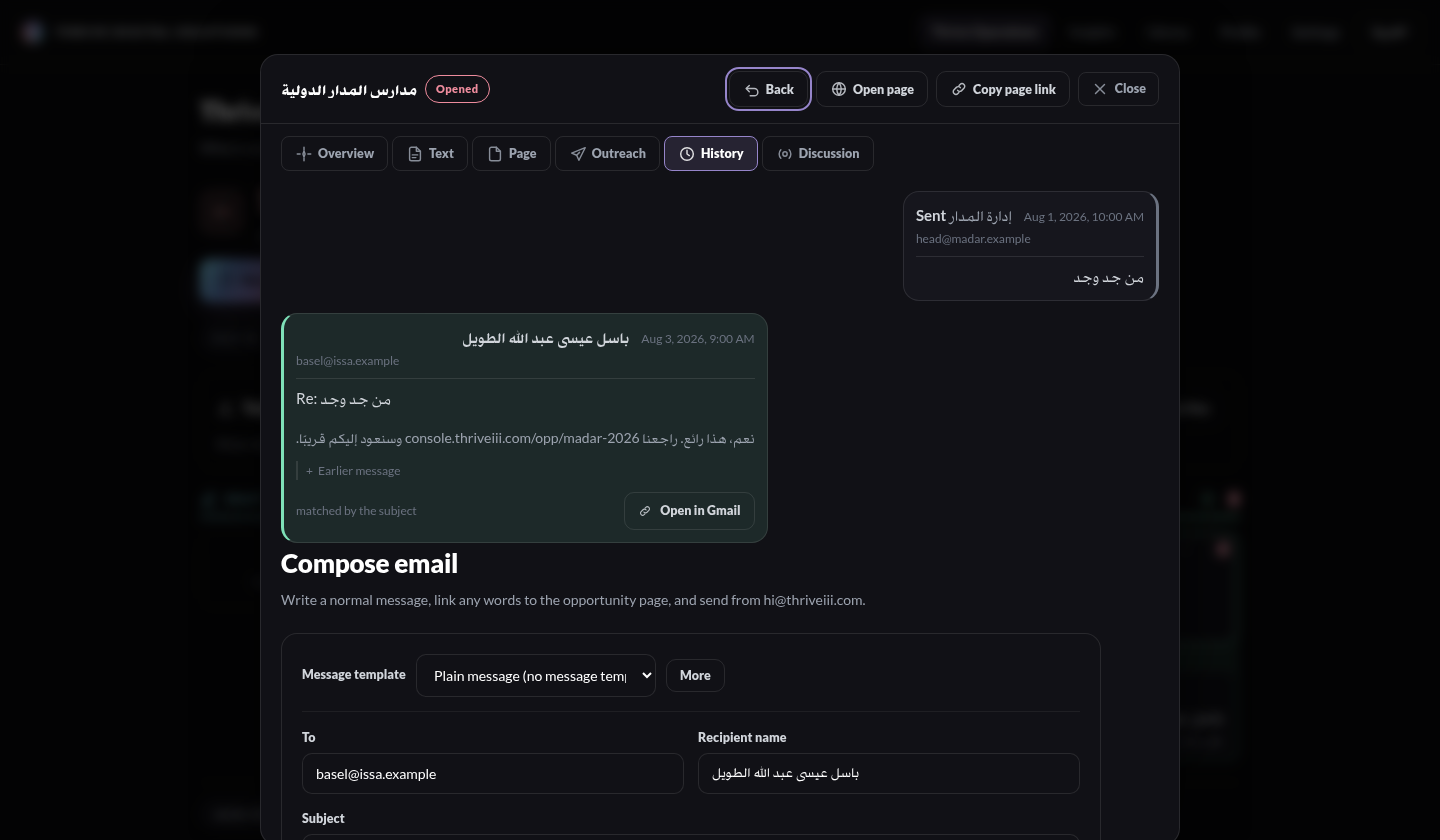
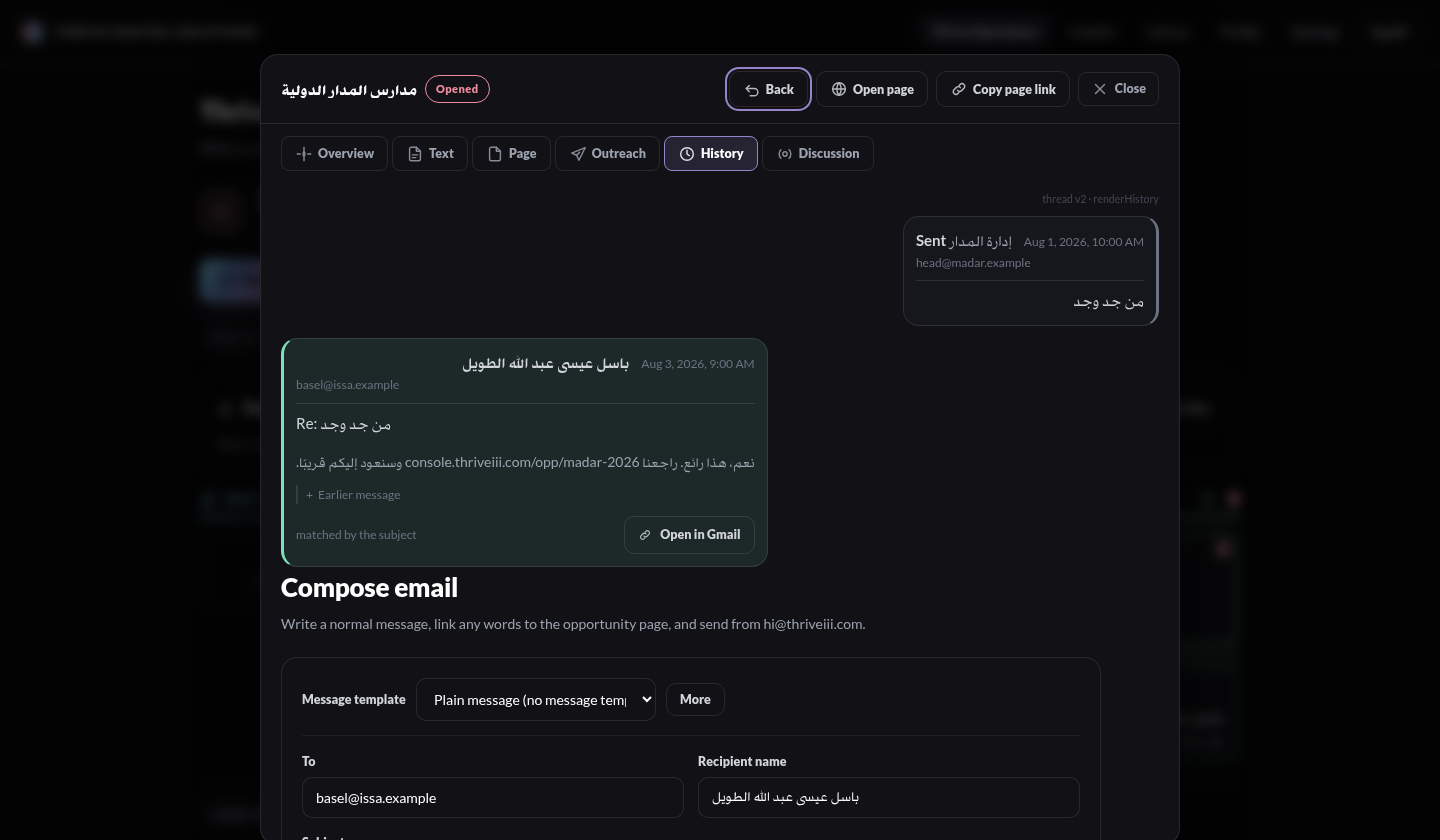
Console: mark and instrument the History renderer so the mounted one is provable on device
The "thread v2" marker did not appear on a fresh device build. The forensics
show why, and it is not a second renderer: the marker's commit was never
deployed.

What actually happened (git-provable):
  - PR #157 was merged at the REBUILD commit (0f9b444). main's library/app.js
    carries the rebuilt renderer (msgBubble, sentCard routes through it), and
    its cache-bust stamp changed with the content (b73a67d66a -> e09212579f),
    so a fresh load serves the rebuilt app.js.
  - The MARKER commit (b9e82b4) was never merged - it was stacked on the
    already-merged branch instead of a fresh PR, so its code is not on main.
    That is why the marker is absent on device: the marker's code was not
    deployed, not because a different component is mounted.
  - dist/thrive-console.html is gitignored (.gitignore: dist/) and nothing in
    the served site references it - it is the offline single-file, never the
    live path. The live path is index.html -> library/console.html -> app.js.

This restarts the branch off latest main (per the merged-PR rule) so the
marker actually reaches a deployable branch, and adds runtime instrumentation
so the mounted renderer is never guessed from source again:
  - The visible corner marker now NAMES the renderer ("thread v2 · renderHistory").
  - Every writer of #modalHistory self-identifies in the DOM: data-renderer on
    threadListHtml's list, data-bubble on each msgBubble, data-history-renderer
    on the container.
[…]

diff --git a/library/app.js b/library/app.js
@@ -5092,6 +5092,41 @@ function renderReplyBodyStructured(text){
       '</summary><div class="rp-quoted-body">'+renderReplyBody(bk.text)+'</div></details>';
   }).join("");
 }
+/* The rendered thread self-identifies. This marker is painted in a corner of the History conversation the
+   moment it opens, analogous to the build stamp but scoped to THIS component, so it is obvious on device
+   whether the current renderer is the one on screen. It exists because the conversation view once appeared
+   unchanged across fixes and the only way to be certain WHICH renderer is mounted is to have it announce
+   itself. There is exactly one card-History renderer (threadListHtml, mounted by renderHistory into
+   #modalHistory); bump this string whenever the thread renderer is rebuilt, so a stale copy is unmissable. */
+var THREAD_RENDERER_VERSION="v2";
+function threadRendererTag(){ return "thread "+THREAD_RENDERER_VERSION; }
+/* Runtime proof of the mounted renderer. Walks the OPEN History DOM (#modalHistory) and reports: the marker
+   text, the container's declared renderer, the count of msgBubble bubbles, and - the decisive check - which
+   leaf element actually holds the reply's on-screen text ("Open in Gmail" / "matched by the subject") and
+   which data-renderer owns it. If a second render path ever mounts, the reply text will resolve to a
+   container this renderer did not stamp, and that shows here instead of being guessed from source. Exposed as
+   a global and logged on every History render, so the truth is one console line on device. Pure read. */
+function threadRendererReport(){
+  var box=(typeof document!=="undefined") && document.getElementById("modalHistory");
+  if(!box) return { mounted:false };
+  var needles=[]; try{ needles=[t("rp_open_gmail"), t("rp_rule_subject")].filter(Boolean); }catch(e){}
+  var holder=null, all=box.querySelectorAll("*");
+  for(var i=0;i<all.length && !holder;i++){
+    var elx=all[i]; if(elx.childElementCount!==0) continue;             // leaf elements only
+    var txt=elx.textContent||"";
+    for(var k=0;k<needles.length;k++){ if(txt.indexOf(needles[k])>=0){ holder=elx; break; } }
+  }
+  var owner="(none)"; if(holder){ var p=holder.closest("[data-renderer]"); owner=p? p.getAttribute("data-renderer") : "(no data-renderer ancestor)"; }
+  return {
+    mounted:true,
+    marker: ((box.querySelector(".th-ver")||{}).textContent||"").trim(),
+    historyRenderer: box.getAttribute("data-history-renderer")||"(unstamped)",
+    listRenderer: box.querySelector('[data-renderer="threadListHtml"]') ? "threadListHtml@library/app.js" : "(no threadListHtml container)",
+    bubbles: box.querySelectorAll('[data-bubble="msgBubble"]').length,
+    replyTextOwner: owner
+  };
+}
+if(typeof window!=="undefined") window.threadRendererReport=threadRendererReport;
 function threadListHtml(slug){
   const entries=buildThread(slug);
   const when=ts=> fmtWhenHtml(ts) || esc(String(ts==null?"":ts));   // isolated date markup (bdi), never LTR-forced
@@ -5113,7 +5148,7 @@ function threadListHtml(slug){
     var isOut=o.side==="out";
     var cardCls=isOut ? "msg-out" : ("rp-card"+(o.latest?" is-latest":""));
     var bodyInner=(o.subjHtml||"")+(o.bodyHtml||"");
-    return '<li class="'+(isOut?"th-sent":"th-reply")+'"'+(o.rid? ' data-rid="'+esc(o.rid)+'"' : '')+'>'+
+    return '<li class="'+(isOut?"th-sent":"th-reply")+'" data-bubble="msgBubble"'+(o.rid? ' data-rid="'+esc(o.rid)+'"' : '')+'>'+
       '<div class="'+cardCls+'">'+
         '<div class="rp-head">'+
           '<div class="rp-top">'+(o.leadHtml||"")+
@@ -5156,7 +5191,9 @@ function threadListHtml(slug){
                 (r.ambiguous? '<span class="rp-ambig" data-icon="alert">'+esc(t("rp_ambiguous"))+'</span>' : '')+
                 (r.gmail? '<a class="btn ghost sm" href="'+esc(r.gmail)+'" target="_blank" rel="noopener">'+ic("link")+esc(t("rp_open_gmail"))+'</a>' : '') });
   }
-  let html='<ol class="th-list">', lastCh=0;
+  // Runtime self-identification: the conversation list names the exact function and file that built it, so
+  // the mounted renderer can be read straight off the DOM on device (the proof that ends fixing a blind copy).
+  let html='<ol class="th-list" data-renderer="threadListHtml" data-file="library/app.js">', lastCh=0;
   entries.forEach(e=>{
     const ch=e.chapter||1;
     if(lastCh && ch>lastCh) html+='<li class="th-chapter"><span>'+esc(t("th_chapter_"+(ch===2?"offer":"more")))+'</span></li>';
@@ -9985,7 +10022,15 @@ function initModal(){
     // When there is no address to answer, a gentle line stands in for the composer.
     let html=threadListHtml(slug);
     if(!(replyTarget(slug)||{}).addr) html+='<p class="th-noreply sub">'+esc(t("th_reply_no_addr"))+'</p>';
-    box.innerHTML=html;
+    // The renderer self-identifies: a low-contrast corner marker naming the mounted renderer, so on device it
+    // is obvious WHICH conversation renderer is on screen (the proof that ends fixing a blind copy). The
+    // container also carries a data-renderer attribute, and threadRendererReport() walks the rendered DOM to
+    // name the exact container that holds the reply text - so a second render path, if one ever exists, is
+    // caught at runtime rather than guessed at from source. Prepended here, in the one History renderer, so it
+    // shows even on an empty thread. aria-hidden: a diagnostic tag, not content read to a screen reader.
+    box.setAttribute("data-history-renderer", "renderHistory>threadListHtml@library/app.js");
+    box.innerHTML='<div class="th-ver" aria-hidden="true" data-renderer="renderHistory">'+esc(threadRendererTag())+' · renderHistory</div>'+html;
+    try{ if(window.console && console.info) console.info("[thread-renderer]", JSON.stringify(threadRendererReport())); }catch(_){}
   }
 
   /* The open team discussion. The list and composer are drawn by discussionHtml (a pure builder); this

diff --git a/library/console.html b/library/console.html
@@ -4,8 +4,8 @@
 <meta charset="UTF-8">
 <meta name="viewport" content="width=device-width, initial-scale=1.0, viewport-fit=cover">
 <meta name="robots" content="noindex, nofollow">
-<meta name="thrive-build" content="964e44cb">
-<meta name="thrive-built-at" content="2026-08-16T09:51:10Z">
+<meta name="thrive-build" content="d0224706">
+<meta name="thrive-built-at" content="2026-08-16T10:53:00Z">
 <!-- The shell must always re-fetch the current asset references so a new deploy is never served as old
      bytes. GitHub Pages sets its own short HTML cache we cannot override with a header, so these are the
      in-our-control best effort; the load-bearing guarantee is the versioned redirect in the root index.html
@@ -35,7 +35,7 @@ p.textContent=ar?'تعذّر تشغيل الكونسول. أعد تحميل ال
 :'The console could not start. Reload the page, and check your connection if it happens again.';
 (document.body||d).appendChild(p)},6000)})();</script>
 <link rel="stylesheet" href="fonts.css?v=4db13ad39c">
-<link rel="stylesheet" href="styles.css?v=a66d086b1c">
+<link rel="stylesheet" href="styles.css?v=b8a87063dc">
 <style>.view[hidden]{display:none!important}</style>
 </head>
 <body>
@@ -56,7 +56,7 @@ p.textContent=ar?'تعذّر تشغيل الكونسول. أعد تحميل ال
      second which code is live and when it was built; every device capture is now labeled. Low contrast and
      pointer-events:none, so it never obstructs the board. The values are ASCII and isolated in a bdi run so
      the Arabic layout cannot reorder them. -->
-<div class="build-stamp" aria-hidden="true">build <bdi class="mono-iso">964e44cb</bdi> · <bdi class="mono-iso">2026-08-16T09:51:10Z</bdi></div>
+<div class="build-stamp" aria-hidden="true">build <bdi class="mono-iso">d0224706</bdi> · <bdi class="mono-iso">2026-08-16T10:53:00Z</bdi></div>
 
 <main class="wrap view" id="view-board" hidden>
 
@@ -924,7 +924,7 @@ p.textContent=ar?'تعذّر تشغيل الكونسول. أعد تحميل ال
 <script src="store.js?v=3cba9b8cff"></script>
 <script src="drafts.js?v=302cc5b4e6"></script>
 <script src="flows.js?v=377173fc32"></script>
-<script src="app.js?v=e09212579f"></script>
+<script src="app.js?v=75ff612ed7"></script>
 <script>
 /* One document, eight views. Each init runs the first time its view is shown, which is exactly
    what the served console does per page load, and again whenever the view is asked for with

diff --git a/library/styles.css b/library/styles.css
@@ -1940,15 +1940,17 @@ body.is-dragging{ cursor:grabbing; user-select:none }
 .mw-empty-i{ color:var(--ink-3); opacity:.4 }
 .mw-empty p{ margin:0; font-size:var(--fs-sm); color:var(--ink-4) }
 
-.mw-hist{ list-style:none; margin:0; padding:0; display:grid; gap:var(--s-2) }
-.mw-hist li{
-  display:flex; gap:var(--s-3); flex-wrap:wrap; align-items:baseline;
-  padding:var(--s-2) var(--s-3);
-  border:1px solid var(--hair-2); border-radius:var(--r-sm);
+/* The card-History conversation has ONE renderer: threadListHtml, mounted by renderHistory into
+   #modalHistory; its styles are the .th-list / .th-sent / .th-reply bubbles below. The old .mw-hist list
+   renderer was retired long ago; its fossil CSS is removed here, so there is a single conversation component
+   in code AND in style, with no dead copy for a future fix to drift into. */
+/* The rendered thread self-identifies: a low-contrast marker painted in a corner of the History view the
+   moment it opens (analogous to the build stamp, scoped to this component), so it is unmistakable on device
+   which renderer is mounted. Non-interactive, aria-hidden in the markup. */
+.th-ver{
+  font-size:var(--fs-micro); color:var(--ink-4); opacity:.55;
+  text-align:end; margin:0 0 var(--s-2); user-select:none; pointer-events:none;
 }
-.mw-hist-when{ font-size:var(--fs-micro); color:var(--ink-4); flex:0 0 auto }
-.mw-hist-what{ font-size:var(--fs-xs); color:var(--ink); font-weight:var(--w-head) }
-.mw-hist-detail{ font-size:var(--fs-xs); color:var(--ink-4); min-width:0; word-break:break-word }
 
 /* WO-015 Phase A: the thread, one continuous record oldest to newest. */
 .th-list{ list-style:none; margin:0; padding:0; display:grid; gap:var(--s-2) }

diff --git a/index.html b/index.html
@@ -4,16 +4,16 @@
 <meta http-equiv="Pragma" content="no-cache">
 <meta http-equiv="Expires" content="0">
 <title>Thrive</title>
-<meta http-equiv="refresh" content="0; url=./library/console.html?v=964e44cb">
+<meta http-equiv="refresh" content="0; url=./library/console.html?v=d0224706">
 <link rel="icon" href="./assets/thrive-logo.png">
 <style>html,body{margin:0;background:#0a0a0c;color:#9ca3af;font-family:-apple-system,Segoe UI,Roboto,sans-serif;height:100%}
 .c{height:100%;display:flex;align-items:center;justify-content:center;gap:12px}
 img{width:26px;height:26px;animation:s 22s linear infinite}@keyframes s{to{transform:rotate(360deg)}}
 a{color:#71BFCC}</style></head>
-<body><div class="c"><img src="./assets/thrive-logo.png" alt=""><span>Opening the <a href="./library/console.html?v=964e44cb">Thrive Opportunity Library</a>…</span></div>
+<body><div class="c"><img src="./assets/thrive-logo.png" alt=""><span>Opening the <a href="./library/console.html?v=d0224706">Thrive Opportunity Library</a>…</span></div>
 <script>(function(){/* Carry any incoming query params (and the hash) across the redirect, so a device
   opened at ?debug=paint reaches the shell WITH the flag rather than losing it at the version bounce. The
   script wins the redirect race with the meta-refresh, so this is the path that actually runs. */
   var q=location.search||"";if(q.charAt(0)==="?")q=q.slice(1);
-  var u="./library/console.html?v=964e44cb"+(q?("&"+q):"")+(location.hash||"");
+  var u="./library/console.html?v=d0224706"+(q?("&"+q):"")+(location.hash||"");
   location.replace(u);})();</script></body></html>

diff --git a/tools/thread_rebuild_test.py b/tools/thread_rebuild_test.py
@@ -55,6 +55,16 @@ ck("a broadened quote-boundary detector exists (Outlook block + separators), so 
    "function quoteStartIndex(" in app and "original message" in app.lower())
 ck("the optimistic reply and scroll-to-newest helpers exist",
    "function threadOptimisticReply(" in app and "function scrollThreadToNewest(" in app)
+# Step 1/2: there is ONE card-History renderer and it self-identifies with a version marker.
+ck("exactly one card-History renderer (threadListHtml) and one mount (renderHistory), no second path",
+   app.count("function threadListHtml(")==1 and app.count("function renderHistory(")==1)
+ck("the thread renderer carries a self-identifying version marker (threadRendererTag / THREAD_RENDERER_VERSION)",
+   "THREAD_RENDERER_VERSION" in app and "function threadRendererTag(" in app and 'class="th-ver"' in app)
+# Runtime instrumentation: every History writer stamps itself, and a probe names the mounted renderer.
+ck("every History writer self-identifies at runtime (data-renderer on the list, data-bubble on each message)",
+   'data-renderer="threadListHtml"' in app and 'data-bubble="msgBubble"' in app and 'data-history-renderer' in app)
+ck("a runtime probe (threadRendererReport) walks the open History DOM to name the mounted renderer",
+   "function threadRendererReport(" in app and "window.threadRendererReport" in app)
 
 # A long Arabic sender name, so the header row is stressed at phone width. A bare-domain (no scheme) inside
 # the Arabic answer, so the isolation is exercised on the exact collision case.
@@ -225,6 +235,26 @@ with sync_playwright() as p:
         ck(f"[{lang}] the thread holds the phone: no horizontal overflow, every bubble inside its box",
            over["over"] <= 1 and over["bubOver"] is False, over)
     pg.evaluate("()=>document.documentElement.setAttribute('dir','ltr')")
+
+    # ---- Step 2: the rendered thread self-identifies with a VISIBLE version marker, so it is unmistakable
+    #      on device which renderer is mounted (the fix for fixing an unrendered copy) ----
+    marker = pg.evaluate("""()=>{
+      window.thriveModal.open('co','history','Co');
+      return new Promise(res=>setTimeout(()=>{
+        const box=document.getElementById('modalHistory');
+        const m=box && box.querySelector('.th-ver');
+        const cs=m?getComputedStyle(m):null;
+        res({ present:!!m, text:m?m.textContent.trim():'',
+              visible:!!(m && m.offsetParent!==null && cs.display!=='none' && parseFloat(cs.opacity)>0),
+              report: (typeof window.threadRendererReport==='function') ? window.threadRendererReport() : null });
+      }, 500));
+    }""")
+    ck("Step 2: the History thread renders a VISIBLE marker naming the mounted renderer (self-identifies on device)",
+       marker["present"] and marker["text"].startswith("thread v2") and "renderHistory" in marker["text"] and marker["visible"], marker)
+    rep = marker.get("report") or {}
+    ck("runtime probe: the reply's on-screen text is owned by threadListHtml (the mounted renderer, proven at runtime)",
+       rep.get("mounted") is True and rep.get("replyTextOwner")=="threadListHtml"
+       and rep.get("bubbles",0) >= 1 and "threadListHtml" in (rep.get("listRenderer") or ""), rep)
 
     ctx.close(); b.close()
 httpd.shutdown()

diff --git a/tools/perf_gate.py b/tools/perf_gate.py
@@ -21,14 +21,16 @@ os.environ.setdefault("PLAYWRIGHT_BROWSERS_PATH", "/opt/pw-browsers")
 ROOT="/home/user/thrive-console"; CH="/opt/pw-browsers/chromium-1194/chrome-linux/chrome"
 
 # Ceilings: set a little above today's measured size so ordinary growth passes and real bloat trips.
-APP_JS_MAX   = 650_000     # library/app.js today ~646 KB (grew across merged briefs; the replies-attach brief
+APP_JS_MAX   = 655_000     # library/app.js today ~650 KB (grew across merged briefs; the replies-attach brief
                            # added the confirmed-inbound path, the reply parent resolver + per-opp numbering,
                            # the card reply badge, and the inbox by-opportunity section; the replies-are-linked
                            # brief added subjLinkKey / subjectLinkOpp, the write-time subject link, and the
                            # extended noise filter; the reply-card brief added the distinct Replied-lane reply
                            # card + tap-to-thread and the two-sided conversation bubbles; the thread-rebuild
                            # brief added the one shared message-bubble component, the broadened per-span
-                           # isolation and quote-boundary detector, and the optimistic inline reply)
+                           # isolation and quote-boundary detector, and the optimistic inline reply; the
+                           # find-the-renderer brief added the thread-version marker and the runtime renderer
+                           # instrumentation, threadRendererReport + data-renderer tokens)
 DIST_MAX     = 1_650_000   # dist/thrive-console.html today ~1.61 MB (the offline single file inlines app.js,
                            # which grew with the reply card, the grouped/bounded reply card + expander, and
                            # the two-sided thread bubbles across the reply briefs)
